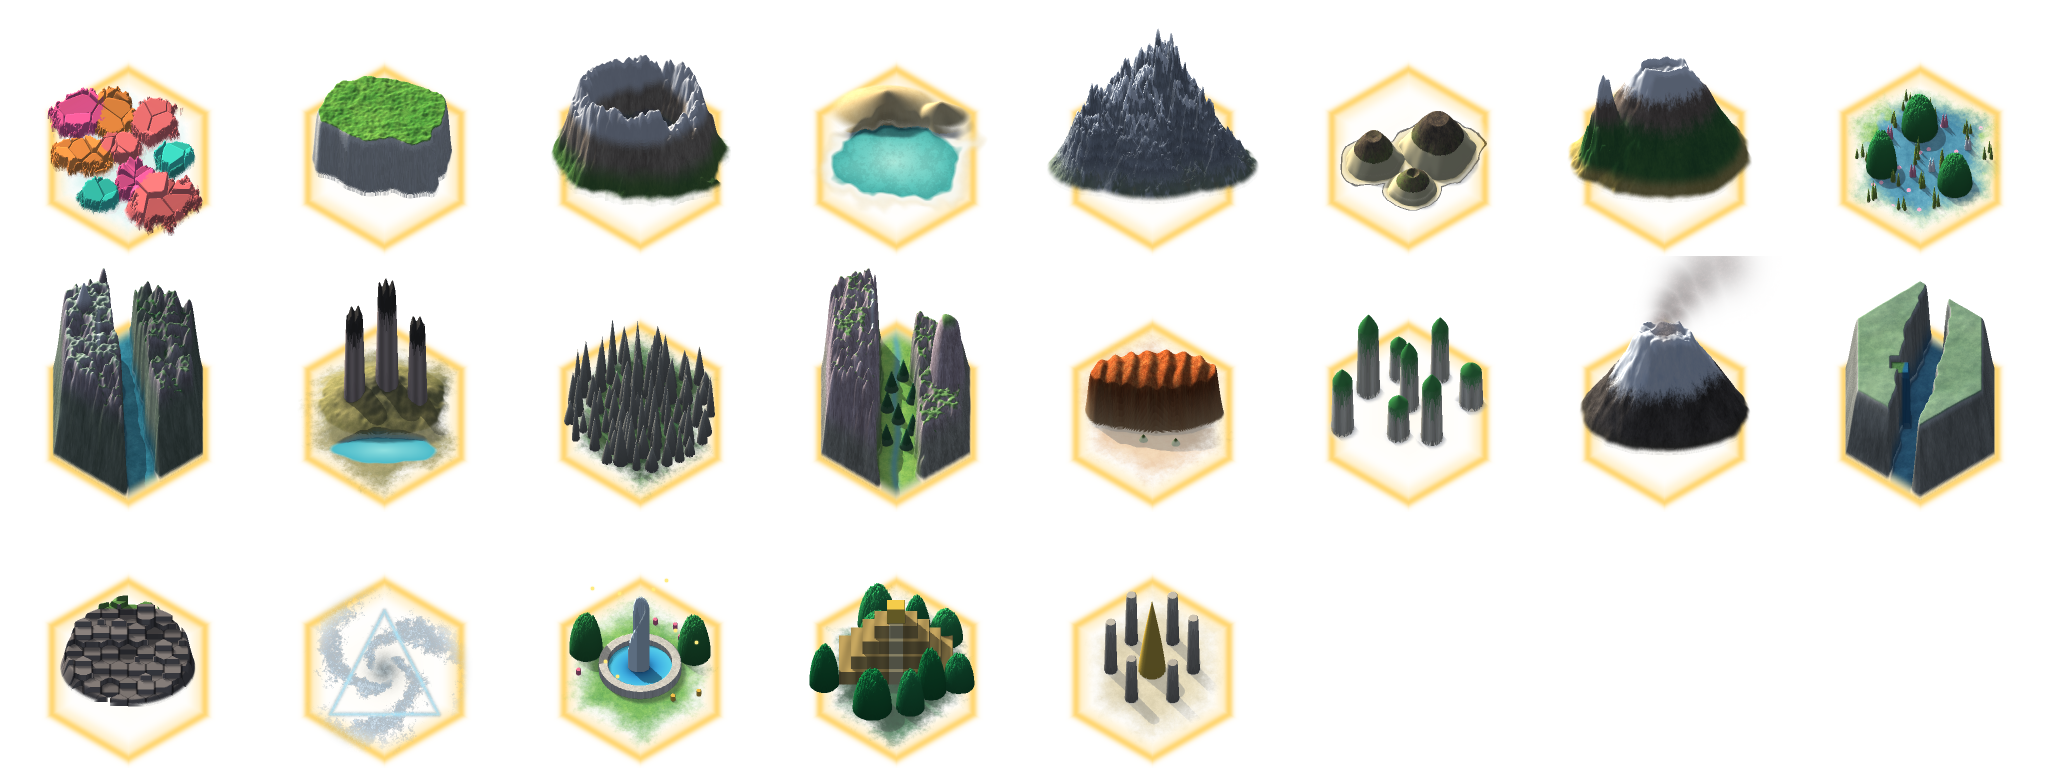
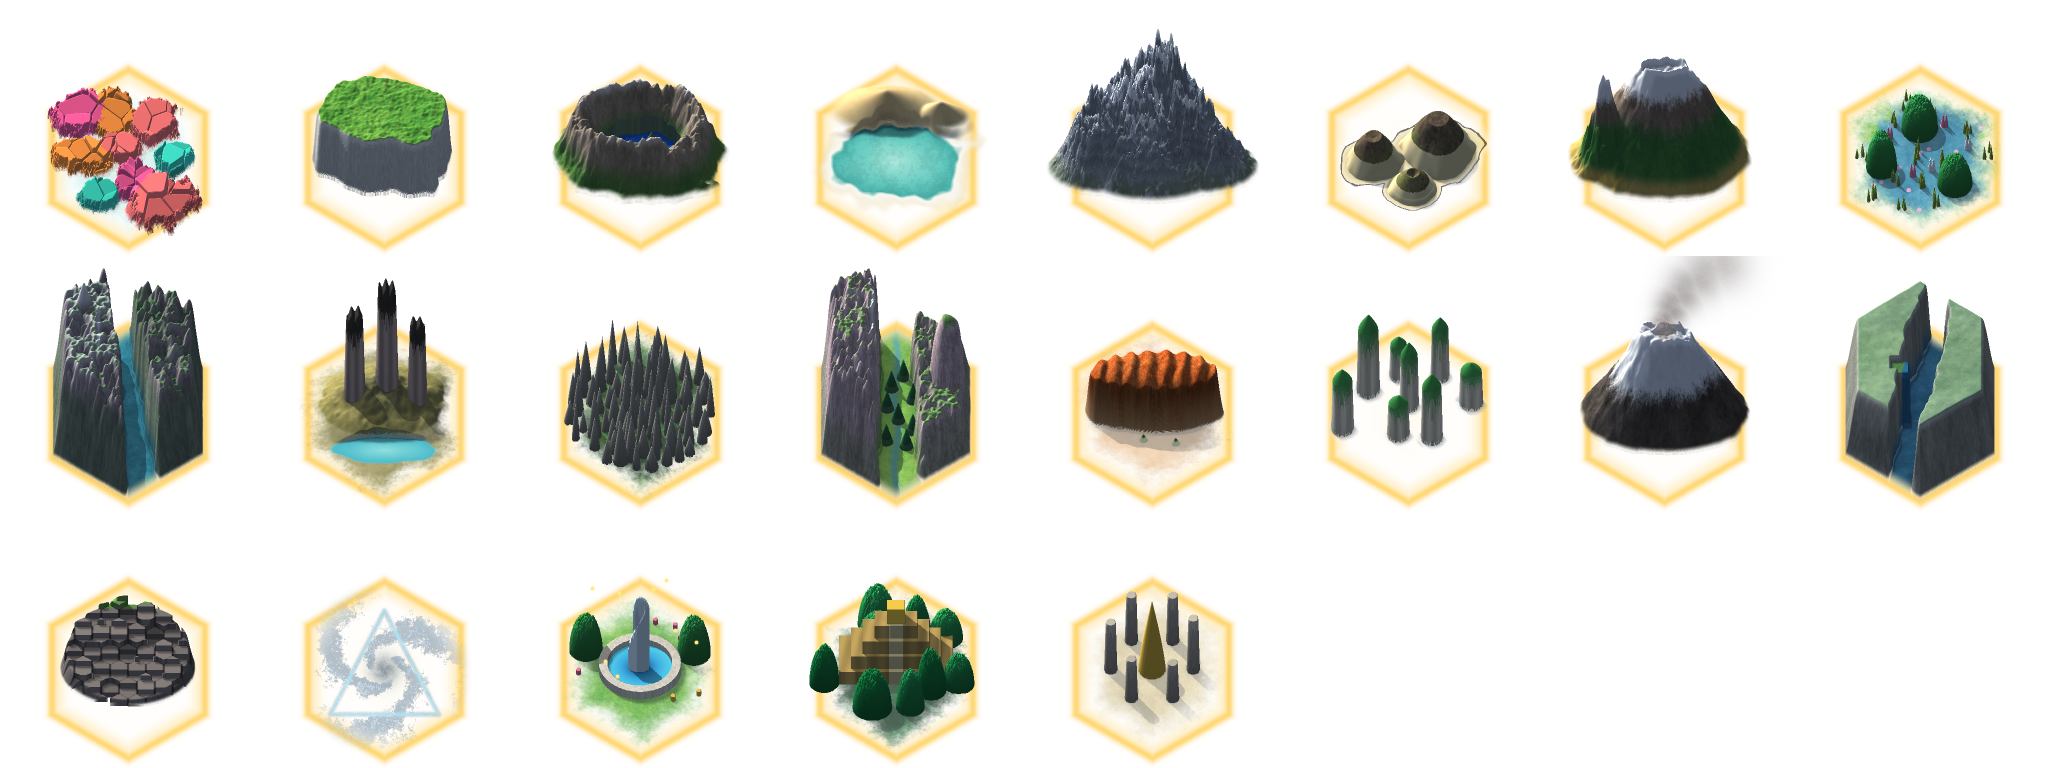
Terrain: clearer Crater Lake, tidy

Changed region(s): [[0.25, 0.0625, 0.3438, 0.2188], [0.2812, 0.25, 0.3438, 0.2812], [0.3438, 0.2188, 0.375, 0.25]]

diff --git a/tools/terrain/wonders.py b/tools/terrain/wonders.py
@@ -140,10 +140,10 @@ def crater(seed=102):
     d = np.sqrt((GX / 0.78) ** 2 + (GY / 0.6) ** 2)
     nn = blurn(grid_noise(seed, 2.8), 3)
     d = d * (1 + (nn - 0.5) * 0.3)
-    rim = np.exp(-((d - 0.72) / 0.26) ** 2) * 0.62 * (0.8 + 0.4 * blurn(ridged(GRID, seed + 1, 2.8), 2.0))
+    rim = np.exp(-((d - 0.76) / 0.24) ** 2) * 0.4 * (0.8 + 0.4 * blurn(ridged(GRID, seed + 1, 2.8), 2.0))
     outer = np.clip(1 - d, 0, 1) ** 0.8 * 0.1
     H = rim + outer
-    H = np.where(d < 0.44, 0.07, H)
+    H = np.where(d < 0.5, 0.05, H)
     H += (grid_noise(seed + 2, 2.6) - 0.5) * 0.02 * (H > 0.02)
     H = np.clip(H, 0, None)
     rock = ramp(grid_noise(seed + 3, 2.0), [(0, hexc("7a6c60")), (1, hexc("b8a894"))])
@@ -152,8 +152,8 @@ def crater(seed=102):
     snow = smoothstep(0.42, 0.55, H + (nn - 0.5) * 0.12)
     alb = mix(alb, np.broadcast_to(hexc("f4f8ff"), alb.shape), snow * 0.8)
     # the lake
-    lake = 1 - smoothstep(0.40, 0.46, d)
-    wcol = ramp(np.clip(1 - d / 0.44, 0, 1), [(0, hexc("123c9a")), (0.5, hexc("1c60c0")), (1, hexc("3c90d4"))])
+    lake = 1 - smoothstep(0.46, 0.52, d)
+    wcol = ramp(np.clip(1 - d / 0.5, 0, 1), [(0, hexc("123c9a")), (0.5, hexc("1c60c0")), (1, hexc("3c90d4"))])
     alb = alb * (1 - lake[..., None]) + wcol * lake[..., None]
     # Wizard Island
     isl = cone(0.12, 0.02, 0.15, 0.2, 1.1)
